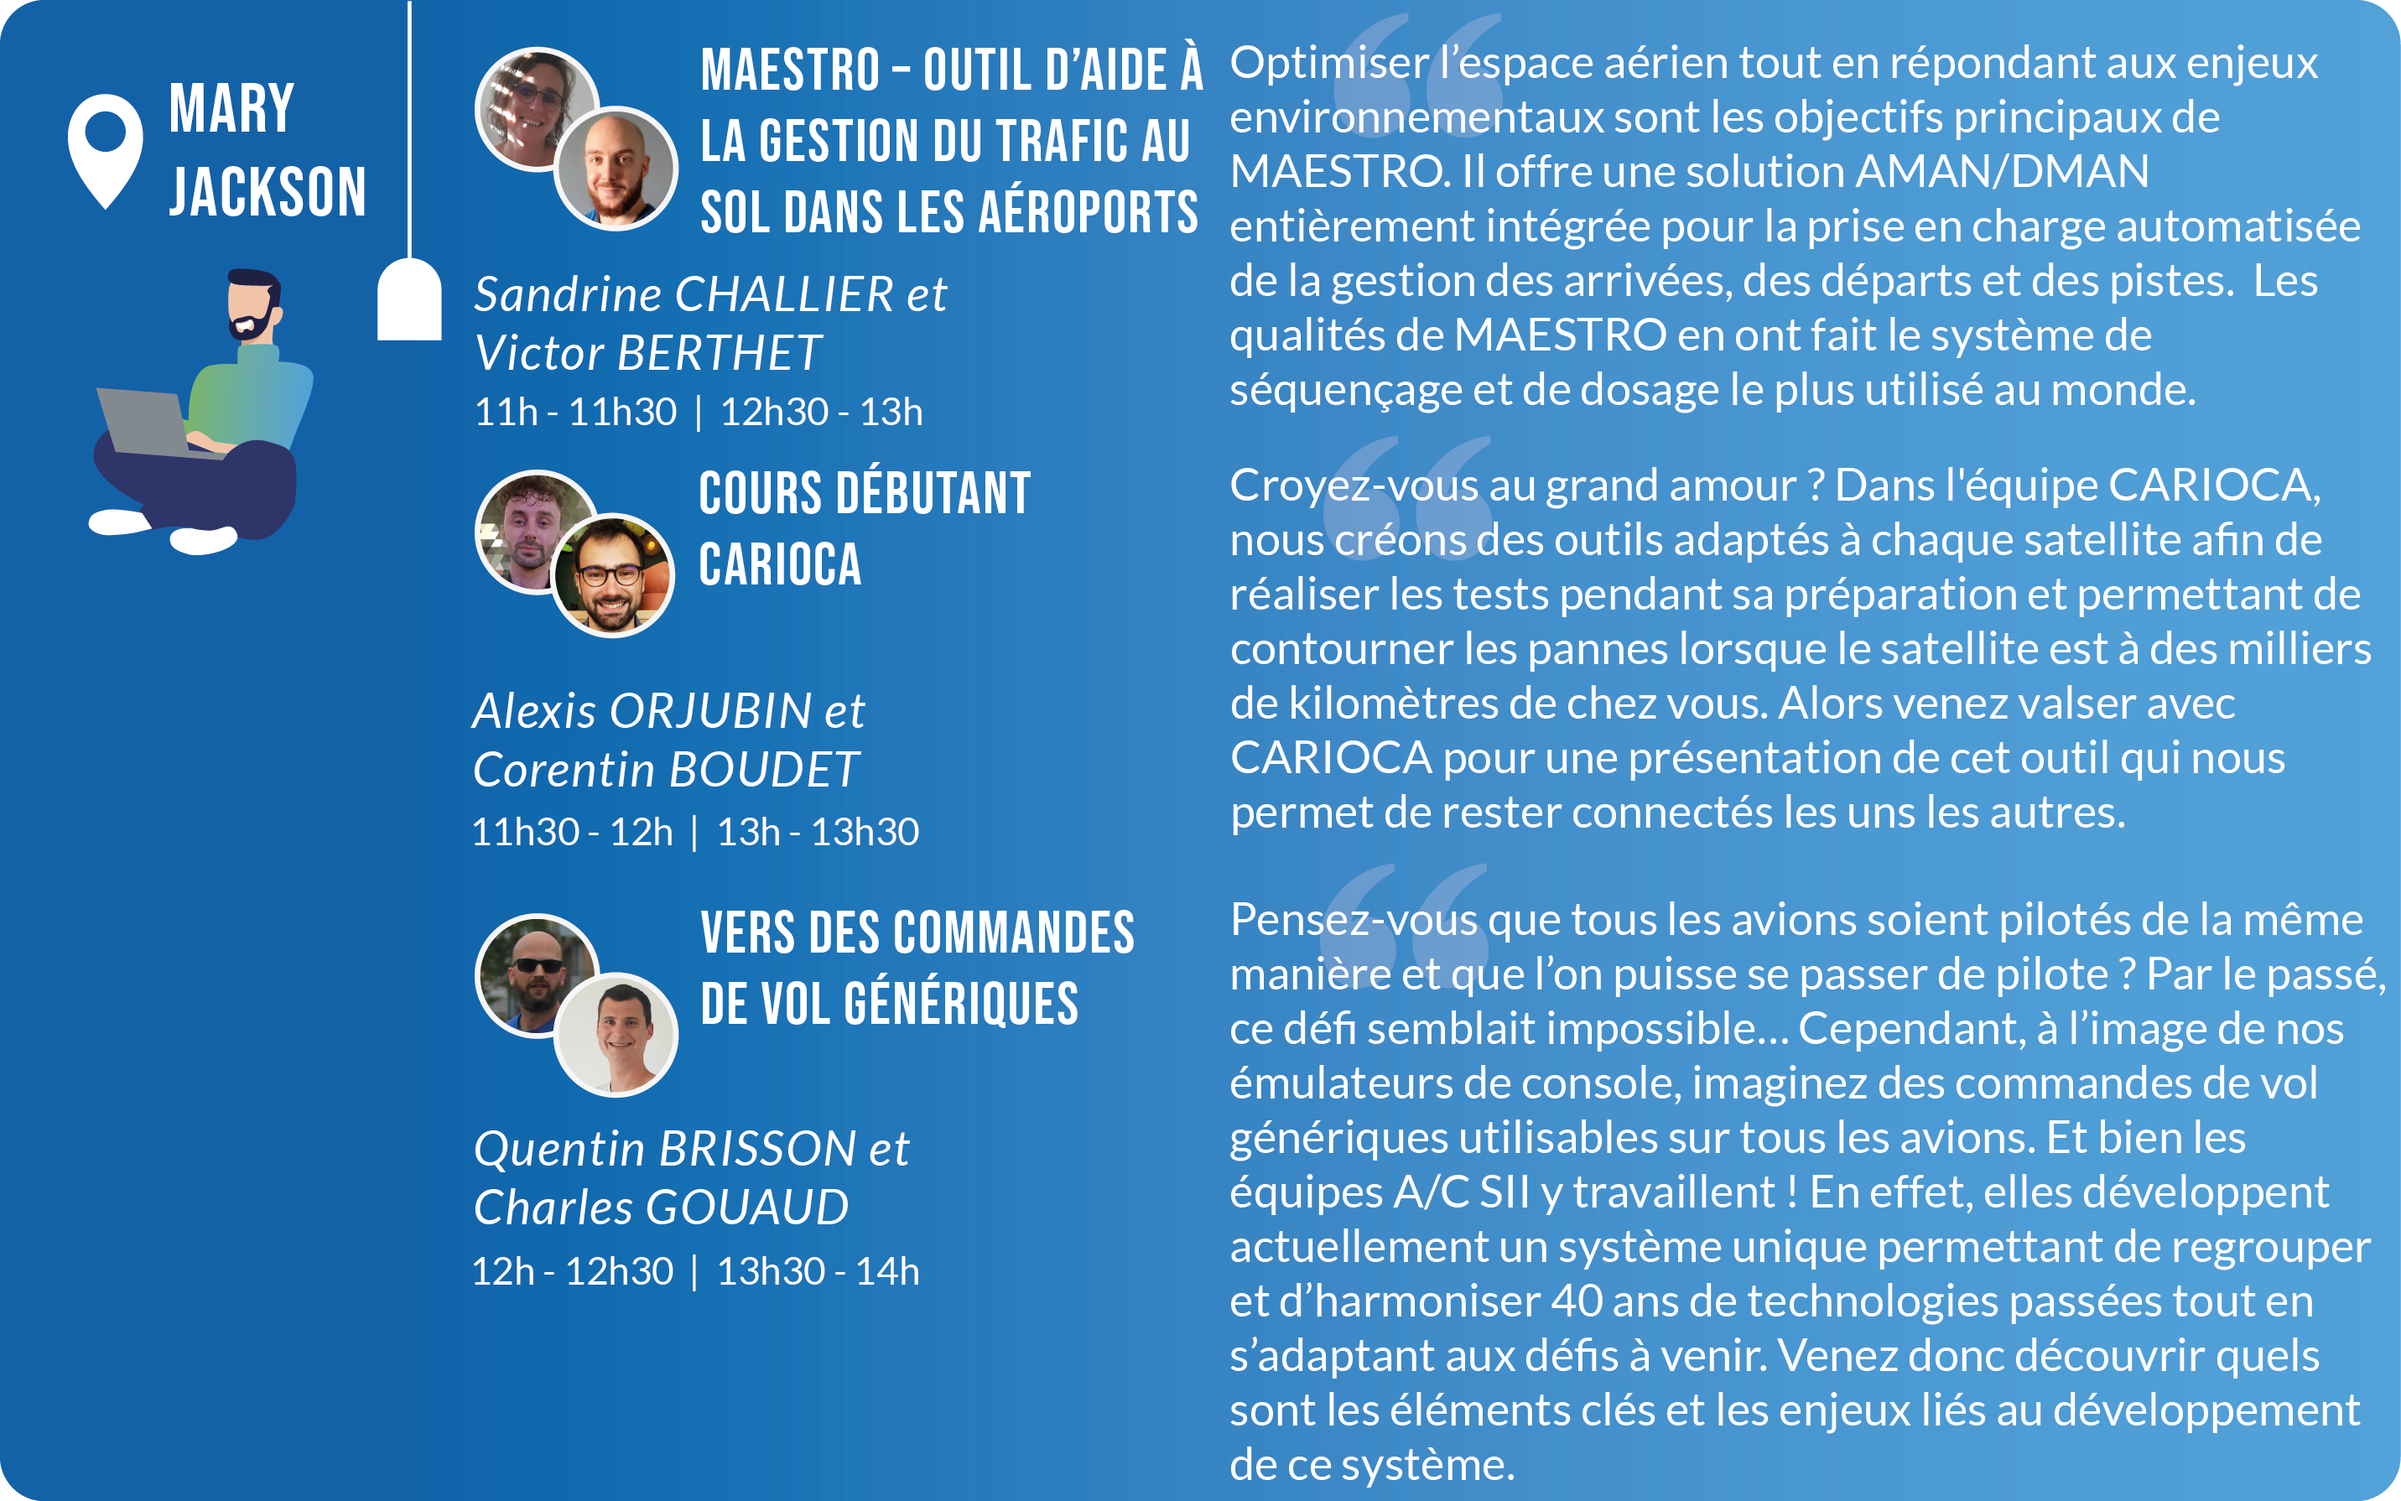
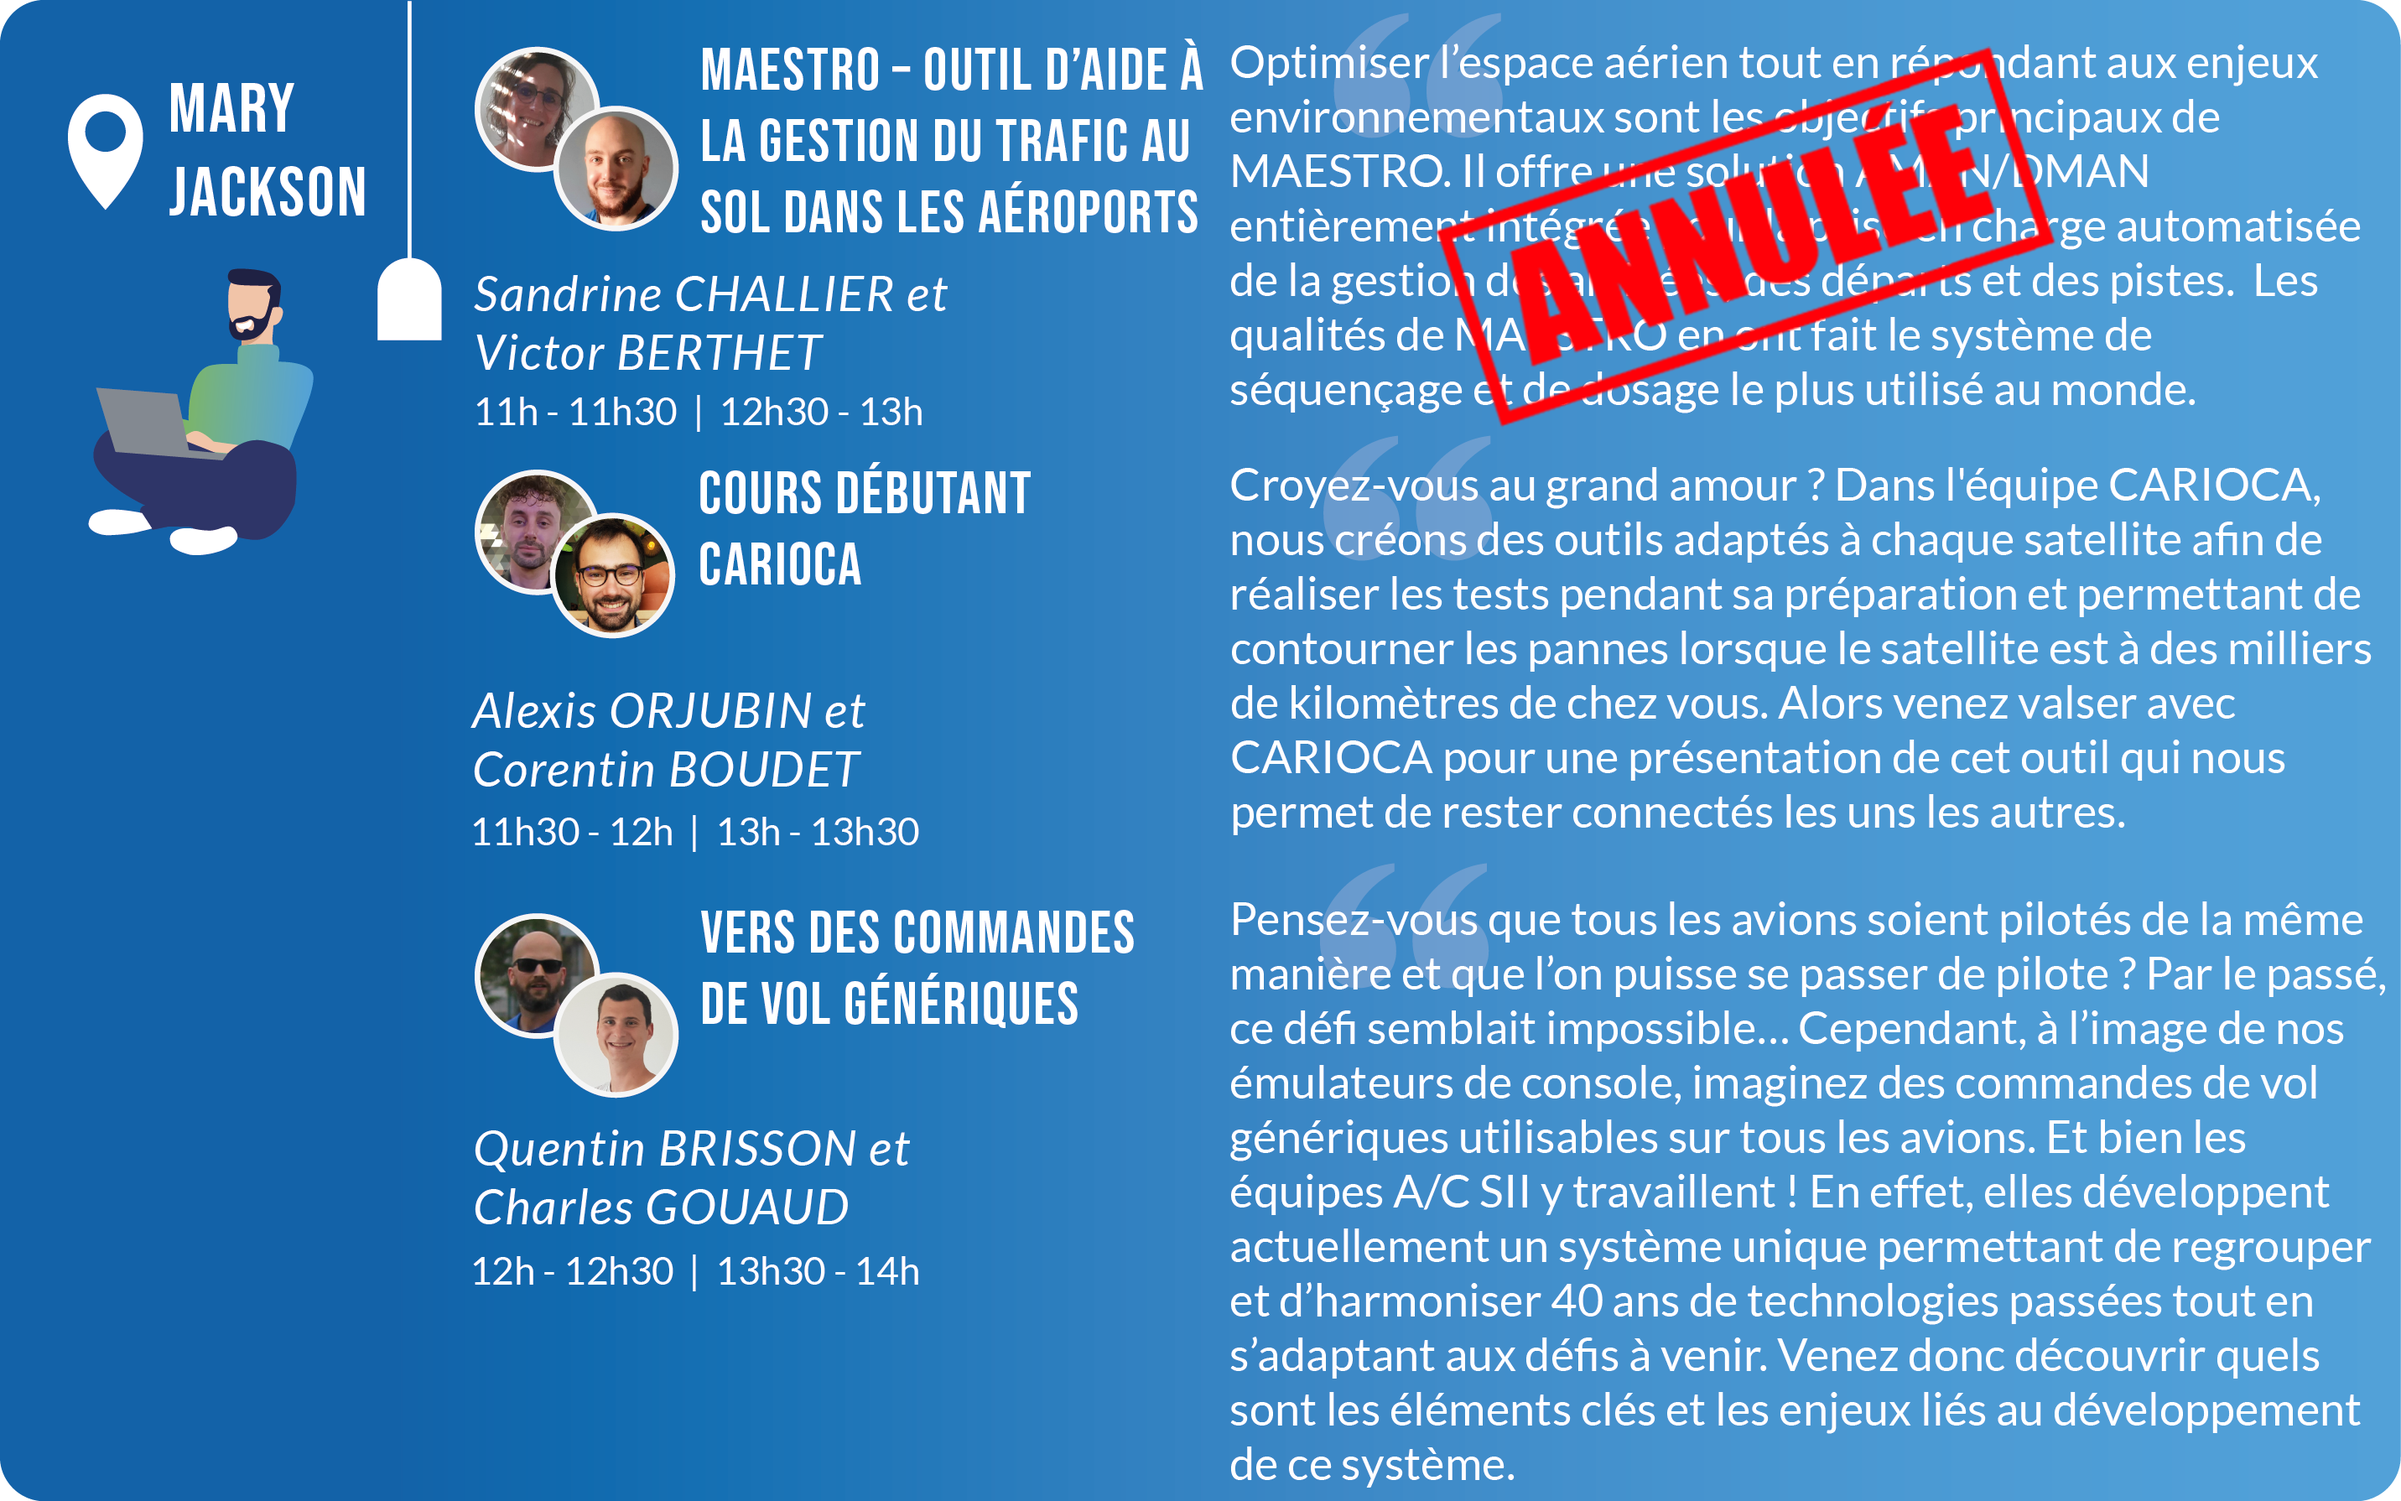
retrait de la conf MAESTRO

Changed region(s): [[0.5906, 0.0307, 0.8704, 0.2765]]

diff --git a/index.html b/index.html
@@ -99,7 +99,7 @@
                         <button type="button" class="button-arrow" >
                             <a href="https://voip.siinergy.net/meet/7c414c062331f6303a7c455355db8f36daa7c94f" target="_blank"><img class="agrandir_arrow" src="img/3CX_Logo_2.png" /></a>
                         </button>  
-                    </div>   
+                    </div>
                     <div class="arrow second_popup_second_arrow">
                         <button type="button" class="button-arrow" >
                             <a href="https://voip.siinergy.net/meet/ec4baa27ec92b4d3d0fb458f936cafad64b04d21" target="_blank"><img class="agrandir_arrow" src="img/3CX_Logo_2.png" /></a>
@@ -112,12 +112,7 @@
                     </div>
                 </div>
 
-                <div class="main_img_popup third_popup">
-                    <div class="arrow third_popup_first_arrow">
-                        <button type="button" class="button-arrow" >
-                            <a href="https://voip.siinergy.net/meet/89fa08bbe043165fc0ca2bd625cffab4ab7f4ab1" target="_blank"><img class="agrandir_arrow" src="img/3CX_Logo_2.png" /></a>
-                        </button>  
-                    </div>   
+                <div class="main_img_popup third_popup"> 
                     <div class="arrow third_popup_second_arrow">
                         <button type="button" class="button-arrow" >
                             <a href="https://voip.siinergy.net/meet/034badc99f4327475900dba7cee5a7b7cca13151" target="_blank"><img class="agrandir_arrow" src="img/3CX_Logo_2.png" /></a>
@@ -257,8 +252,6 @@
                             <p class="line">-----------------------------</p>
                             <a class="presentation_text shortcut_6" href="https://voip.siinergy.net/meet/eb237d63ef0f89a999ae9ea2f2538b2f2b4b33bc" target="_blank">Essais électriques aéronautique</a>
                             <p class="line">-----------------------------</p>
-                            <a class="presentation_text shortcut_7" href="https://voip.siinergy.net/meet/89fa08bbe043165fc0ca2bd625cffab4ab7f4ab1" target="_blank">MAESTRO - Outil d'aide à la <br> gestion du trafic au sol dans les aéroports</a>
-                            <p class="line">-----------------------------</p>
                             <a class="presentation_text shortcut_8" href="https://voip.siinergy.net/meet/034badc99f4327475900dba7cee5a7b7cca13151" target="_blank">Cours débutant CARIOCA</a>
                             <p class="line">-----------------------------</p>
                             <a class="presentation_text shortcut_9" href="https://voip.siinergy.net/meet/cdf6bf2c529e36a2435be47e413a92e834bc7181" target="_blank">Vers des commandes de vol <br> génériques</a>
@@ -335,10 +328,8 @@
                     <div class="cursor_pointer fifth_column" style="position: absolute; width: 14.1%; height: 4%; left: 66.1%; top: 26%;"><a style="display: inline-block; width: 100%; height: 100%;" href="https://voip.siinergy.net/meet/ec4baa27ec92b4d3d0fb458f936cafad64b04d21" target="_blank"></a></div>
                     <div class="cursor_pointer sixth_column" style="position: absolute; width: 14.3%; height: 4%; left: 80.3%; top: 26%;"><a style="display: inline-block; width: 100%; height: 100%;" href="https://voip.siinergy.net/meet/eb237d63ef0f89a999ae9ea2f2538b2f2b4b33bc" target="_blank"></a></div>
 
-                    <div class="cursor_pointer first_column" style="position: absolute; width: 14.1%; height: 4%; left: 9%; top: 32.7%;"><a style="display: inline-block; width: 100%; height: 100%;" href="https://voip.siinergy.net/meet/89fa08bbe043165fc0ca2bd625cffab4ab7f4ab1" target="_blank"></a></div>
                     <div class="cursor_pointer second_column" style="position: absolute; width: 14.1%; height: 4%; left: 23.3%; top: 32.7%;"><a style="display: inline-block; width: 100%; height: 100%;" href="https://voip.siinergy.net/meet/034badc99f4327475900dba7cee5a7b7cca13151" target="_blank"></a></div>
                     <div class="cursor_pointer third_column" style="position: absolute; width: 14.2%; height: 4%; left: 37.4%; top: 32.7%;"><a style="display: inline-block; width: 100%; height: 100%;" href="https://voip.siinergy.net/meet/cdf6bf2c529e36a2435be47e413a92e834bc7181" target="_blank"></a></div>
-                    <div class="cursor_pointer fourth_column" style="position: absolute; width: 14.3%; height: 4%; left: 51.7%; top: 32.7%;"><a style="display: inline-block; width: 100%; height: 100%;" href="https://voip.siinergy.net/meet/89fa08bbe043165fc0ca2bd625cffab4ab7f4ab1" target="_blank"></a></div>
                     <div class="cursor_pointer fifth_column" style="position: absolute; width: 14.1%; height: 4%; left: 66.1%; top: 32.7%;"><a style="display: inline-block; width: 100%; height: 100%;" href="https://voip.siinergy.net/meet/034badc99f4327475900dba7cee5a7b7cca13151" target="_blank"></a></div>
                     <div class="cursor_pointer sixth_column" style="position: absolute; width: 14.3%; height: 4%; left: 80.3%; top: 32.7%;"><a style="display: inline-block; width: 100%; height: 100%;" href="https://voip.siinergy.net/meet/cdf6bf2c529e36a2435be47e413a92e834bc7181" target="_blank"></a></div>
 

diff --git a/app.js b/app.js
@@ -31,7 +31,6 @@ const shortcut_3 = document.querySelector('.shortcut_3')
 const shortcut_4 = document.querySelector('.shortcut_4')
 const shortcut_5 = document.querySelector('.shortcut_5')
 const shortcut_6 = document.querySelector('.shortcut_6')
-const shortcut_7 = document.querySelector('.shortcut_7')
 const shortcut_8 = document.querySelector('.shortcut_8')
 const shortcut_9 = document.querySelector('.shortcut_9')
 const shortcut_10 = document.querySelector('.shortcut_10')
@@ -252,13 +251,6 @@ shortcut_6.addEventListener("mouseenter", () => {
 });
 shortcut_6.addEventListener("mouseout", () => {
     second_mini_popup.classList.remove('transition_opacity')
-});
-
-shortcut_7.addEventListener("mouseenter", () => {
-    third_mini_popup.classList.add('transition_opacity')
-});
-shortcut_7.addEventListener("mouseout", () => {
-    third_mini_popup.classList.remove('transition_opacity')
 });
 
 shortcut_8.addEventListener("mouseenter", () => {
